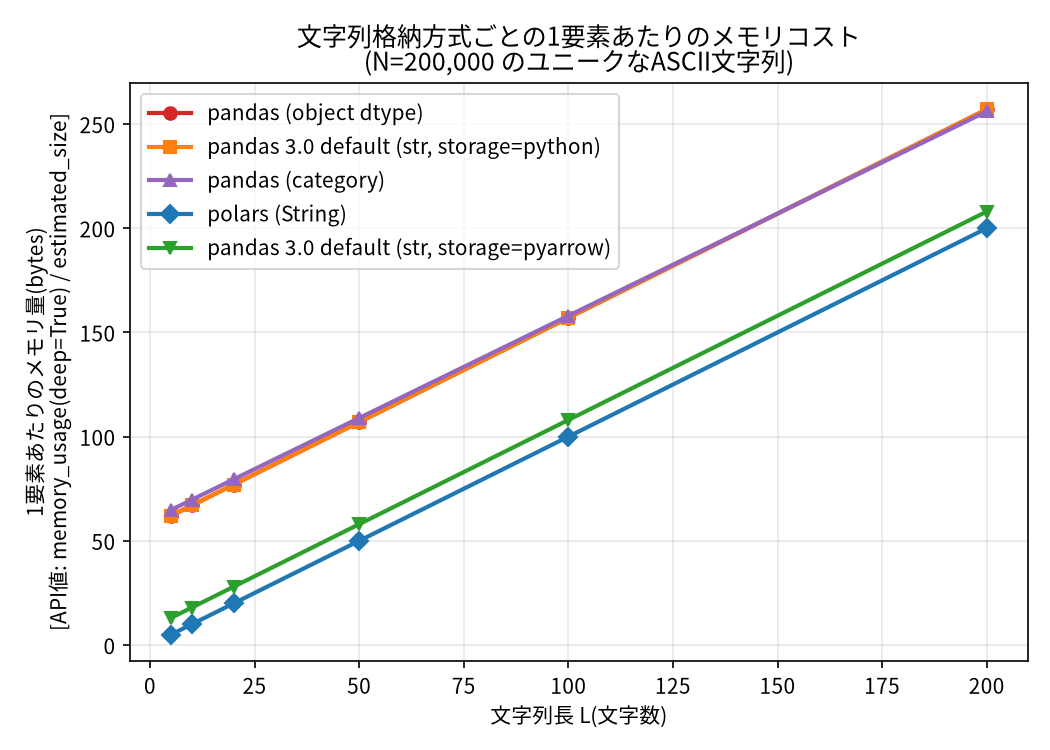
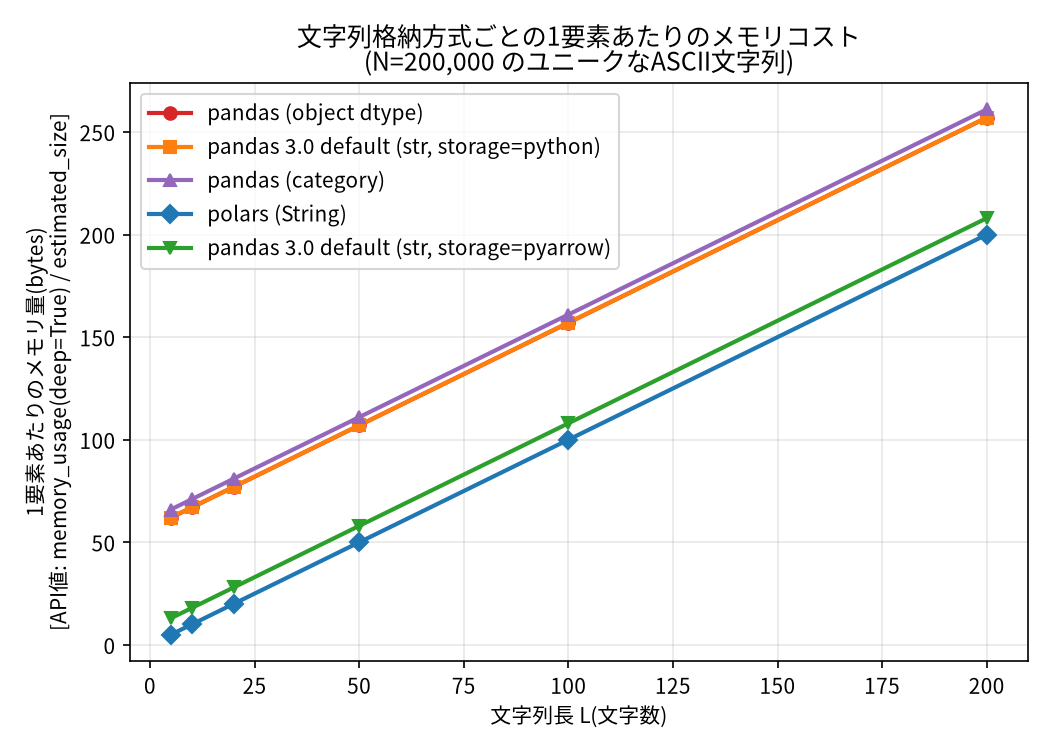
fix(bench): 一意文字列生成のパディング衝突を修正し実験Aを再計測
make_unique_strings のパディング文字が base62 の桁文字と衝突し、20万件中
約1.9%(3,844件)が重複していた。パディングをゼロ埋めに変更して単射性を
保証し、影響を受ける実験Aの結果・グラフを再生成する。

diff --git a/why-are-you-using-pandas/bench/common.py b/why-are-you-using-pandas/bench/common.py
@@ -18,14 +18,20 @@ def _base_n(i: int) -> str:
 def make_unique_strings(n: int, length: int):
     """0..n-1 を base62 でエンコードし、長さ length の一意な文字列を n 個生成する。
     長さ length は base62 で n 通りを表現するのに十分な桁数であること前提。
+
+    パディングは ALPHABET[0](=数値の0に相当)によるゼロ埋め。_base_n は先頭に
+    数値0の桁を出さないため、ゼロ埋めした固定長表現は i に対して単射になる。
+    かつて 'x'(base62 の一桁として有効な文字)で埋めていた際は、埋め文字と
+    エンコード結果の区別がつかず約1.9%の重複が生じていた(62^2 = 3,844通りの衝突)。
     """
     out = []
+    pad = ALPHABET[0]
     for i in range(n):
         enc = _base_n(i)
         if len(enc) >= length:
             out.append(enc[-length:])
         else:
-            out.append("x" * (length - len(enc)) + enc)
+            out.append(pad * (length - len(enc)) + enc)
     return out
 
 
